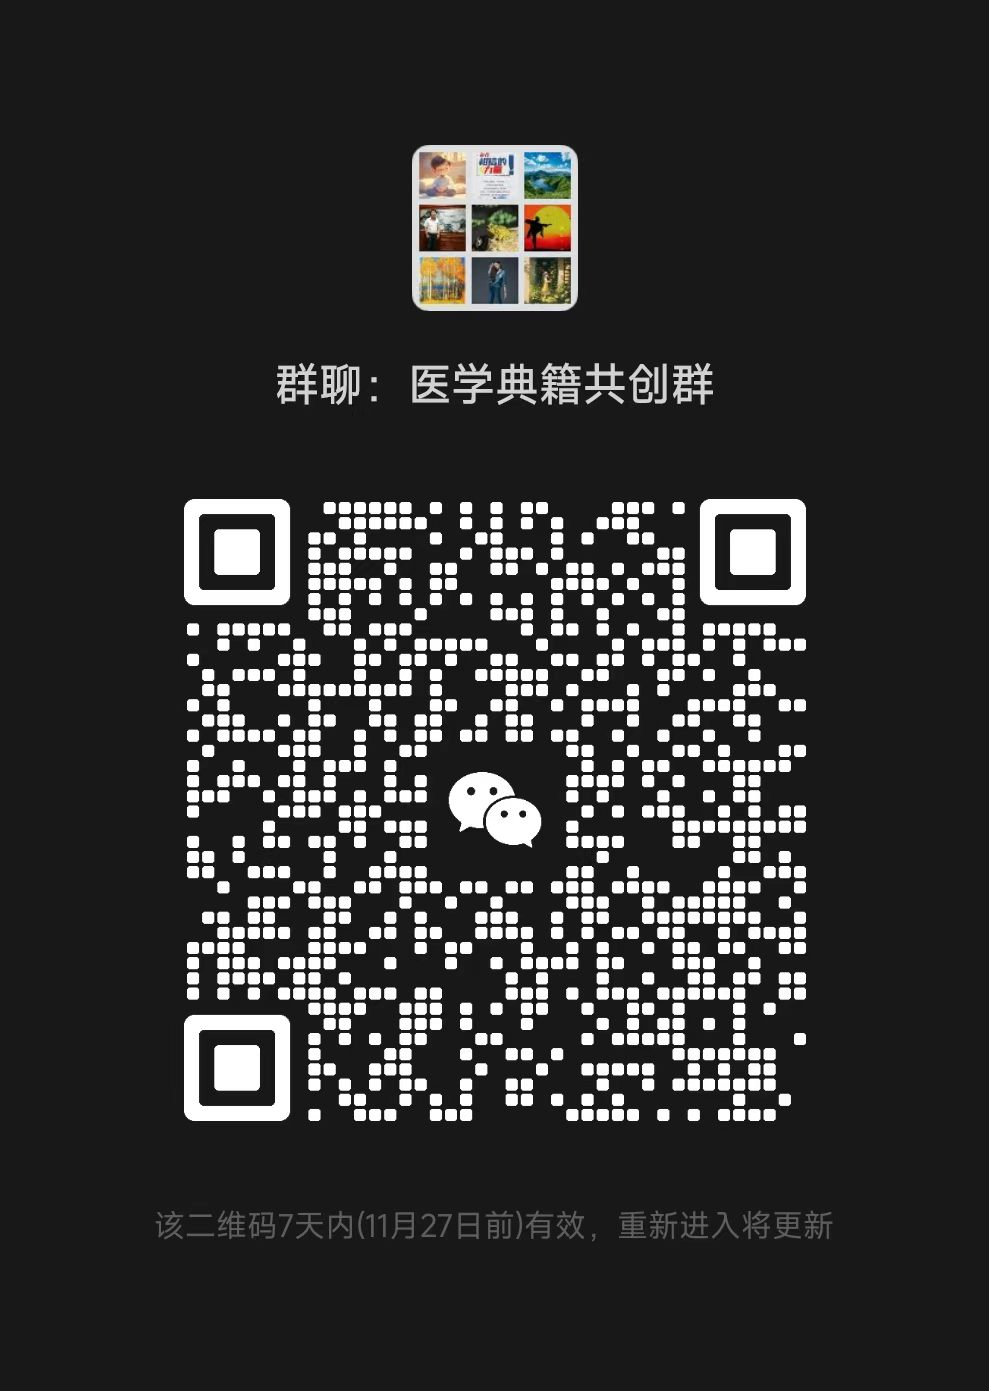
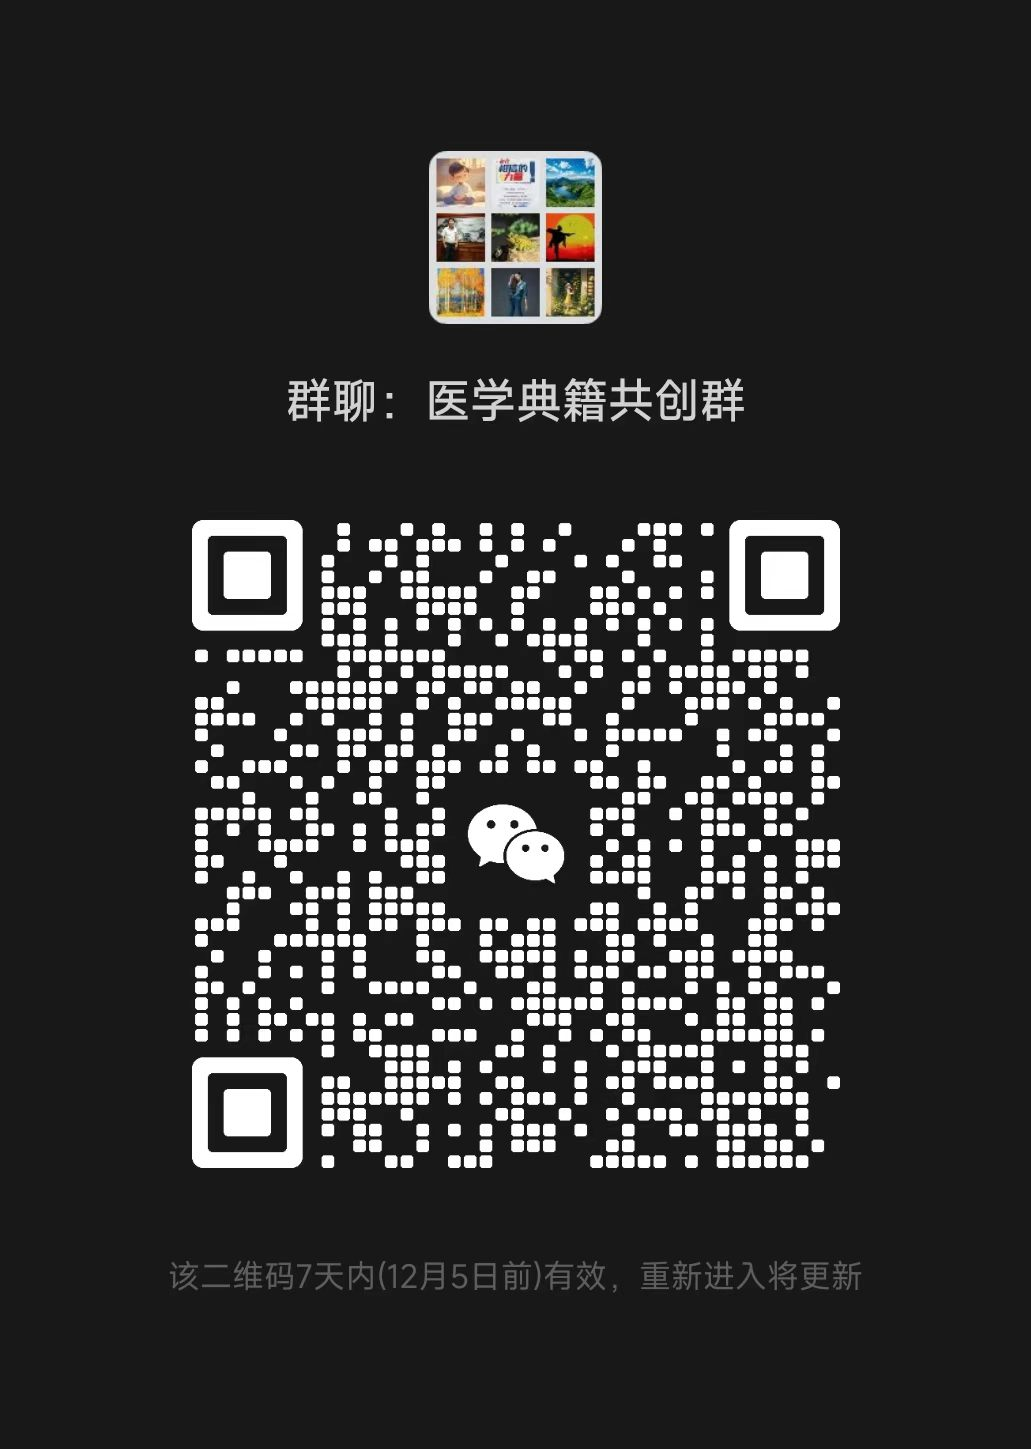
docs: README 补视频号与多平台同号申明；群二维码换 1128 版

diff --git a/README.md b/README.md
@@ -153,11 +153,17 @@ JG 各版：俞桥 276、人卫 241、邓珍 236、医统 232。
 
 <img src="assets/gzh-guijigongchuang.jpg" width="220" alt="公众号 古籍共创 二维码">
 
+**视频号：古籍共创**
+
+条文讲解、版本比对、整理进度的短视频发在这里。
+
+**申明：多平台同号。** 公众号、视频号及其他平台统一用「古籍共创」这一个名字，不设小号；名称相近的其他账号与本项目无关。
+
 **微信交流群：医学典籍共创群**
 
-群里聊校勘、认领活、报错字。二维码会过期，失效了在公众号后台回复「加群」拿新的。
+群里聊校勘、认领活、报错字。二维码 7 天有效（本图 12 月 5 日前），失效了在公众号后台回复「加群」拿新的。
 
-<img src="assets/group-wx-qrcode.jpg" width="260" alt="医学典籍共创群 二维码">
+<img src="assets/group-wx-qrcode.jpg" width="340" alt="医学典籍共创群 二维码">
 
 ---
 
